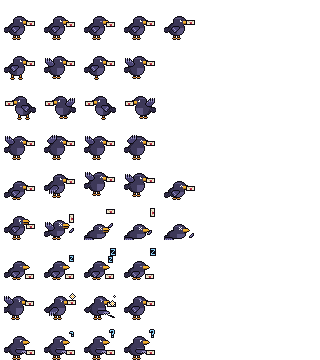
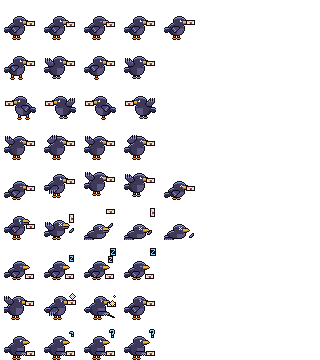
fix(arte): Corvo — asa da frente abaixo da bolsa e brilho azulado nas penas
No review e no 3º quadro do running a asa esticada desce 1-2 linhas (a carta do review acompanha) e não fica
mais sob a bolsa dos estágios 2 e 3. A linha de cima da cabeça, do corpo e do rabo ganha um brilho azulado (N),
para o corpo escuro não sumir em fundo escuro.

diff --git a/herois/corvo.py b/herois/corvo.py
@@ -9,7 +9,7 @@ PAL = {
     "K": "#0d0a12", "B": "#3d3858", "b": "#29253c", "P": "#5e5882", "A": "#4b4574", "a": "#9a94c8",
     "W": "#f4f6fb", "Y": "#f0b030", "y": "#a8701c", "L": "#e0913a", "C": "#f4ead2", "c": "#c9b994",
     "R": "#c8334a", "r": "#7e1f33", "D": "#7a4a28", "d": "#4e2e16", "H": "#5a2a6e", "h": "#3a1a48",
-    "G": "#ffd23f", "g": "#b8860b", "T": "#8fd8ff",
+    "G": "#ffd23f", "g": "#b8860b", "T": "#8fd8ff", "N": "#7f92d6",
 }
 
 CORPO = (3, 5, 6, 7, 7, 7, 7, 7, 6, 6, 5, 3)           # meia-largura do corpo por linha (12 linhas)
@@ -114,6 +114,9 @@ def quadro(cx=12, base=30, perna=3, corpo=CORPO, olho="n", bico="f", carta="bico
     for r, a, b, cor in partes:
         for x in range(hx + a, hx + b + 1):
             px[(x, htop + r)] = cor
+    for (x, y), c in list(px.items()):                  # brilho azulado no alto das penas (contraste em fundo escuro)
+        if c in "BbP" and (x, y - 1) not in px:
+            px[(x, y)] = "N"
     contornar(g, px)
     if bico != "f":
         for x in range(hx + 5, hx + 9):
@@ -180,14 +183,14 @@ _SPECS = {
     # bicada dupla: arma para trás, bica com a carta (brilho), bica de novo com golpe de asa, volta
     "running": [dict(cx=11, olho="bravo", asa=(ASA_CIMA, -11, -12)),
                 dict(cx=13, olho="bravo", asa=(ASA_BAIXO, -8, -1), cdy=-1, por=((BRILHO, 25, 5),)),
-                dict(cx=13, olho="bravo", asa=(ASA_FRENTE, 0, 2), cdy=1,
+                dict(cx=13, olho="bravo", asa=(ASA_FRENTE, 0, 3), cdy=1,
                      por=((BRILHO, 25, 12), (BRILHO_P, 29, 7), (VENTO, 24, 27))),
                 dict(cx=12, olho="bravo", asa=(ASA_FECHADA, -5, -2))],
     # lê a carta segurada na ponta da asa, olho baixo; "?" aparece
-    "review": [dict(olho="baixo", carta=(CARTA, 22, 22), asa=(ASA_FRENTE, -1, 1)),
-               dict(olho="baixo", carta=(CARTA, 22, 22), asa=(ASA_FRENTE, -1, 1), por=((INTERROG_P, 25, 3),)),
-               dict(olho="n", carta=(CARTA, 22, 22), asa=(ASA_FRENTE, -1, 1), por=((INTERROG, 25, 1),)),
-               dict(olho="baixo", carta=(CARTA, 22, 22), asa=(ASA_FRENTE, -1, 1), por=((INTERROG, 25, 1),))],
+    "review": [dict(olho="baixo", carta=(CARTA, 22, 23), asa=(ASA_FRENTE, -1, 3)),
+               dict(olho="baixo", carta=(CARTA, 22, 23), asa=(ASA_FRENTE, -1, 3), por=((INTERROG_P, 25, 3),)),
+               dict(olho="n", carta=(CARTA, 22, 23), asa=(ASA_FRENTE, -1, 3), por=((INTERROG, 25, 1),)),
+               dict(olho="baixo", carta=(CARTA, 22, 23), asa=(ASA_FRENTE, -1, 3), por=((INTERROG, 25, 1),))],
 }
 
 QUADROS, ANCORA = {}, {}

diff --git a/tests/test_folha.py b/tests/test_folha.py
@@ -456,6 +456,12 @@ def test_heroi_corvo():
     # bolsa e capuz cabem inteiros no quadro em todos os quadros (inclusive no alto do pulo)
     w, h = len(co.BOLSA_CAPUZ[0]), len(co.BOLSA_CAPUZ)
     assert all(0 <= a[0] <= 32 - w and 0 <= a[1] <= 32 - h for qs in co.ANCORA.values() for a in qs)
+    conta = lambda q, c: sum(l.count(c) for l in q)
+    for i in (1, 2):   # a bolsa não cobre a asa esticada (review e 3º quadro do running)
+        est = montar.estados(co, i)
+        for e, j in [("review", k) for k in range(4)] + [("running", 2)]:
+            assert conta(est[e][j], "A") == conta(base[e][j], "A"), (i, e, j)
+    assert all(conta(q, "N") for qs in base.values() for q in qs)   # brilho azulado nas penas em todo quadro
     for i in range(3):
         ult = montar.estados(co, i)["failed"][-1]
         assert sum(ch != "." for l in ult for ch in l) >= 40, i
